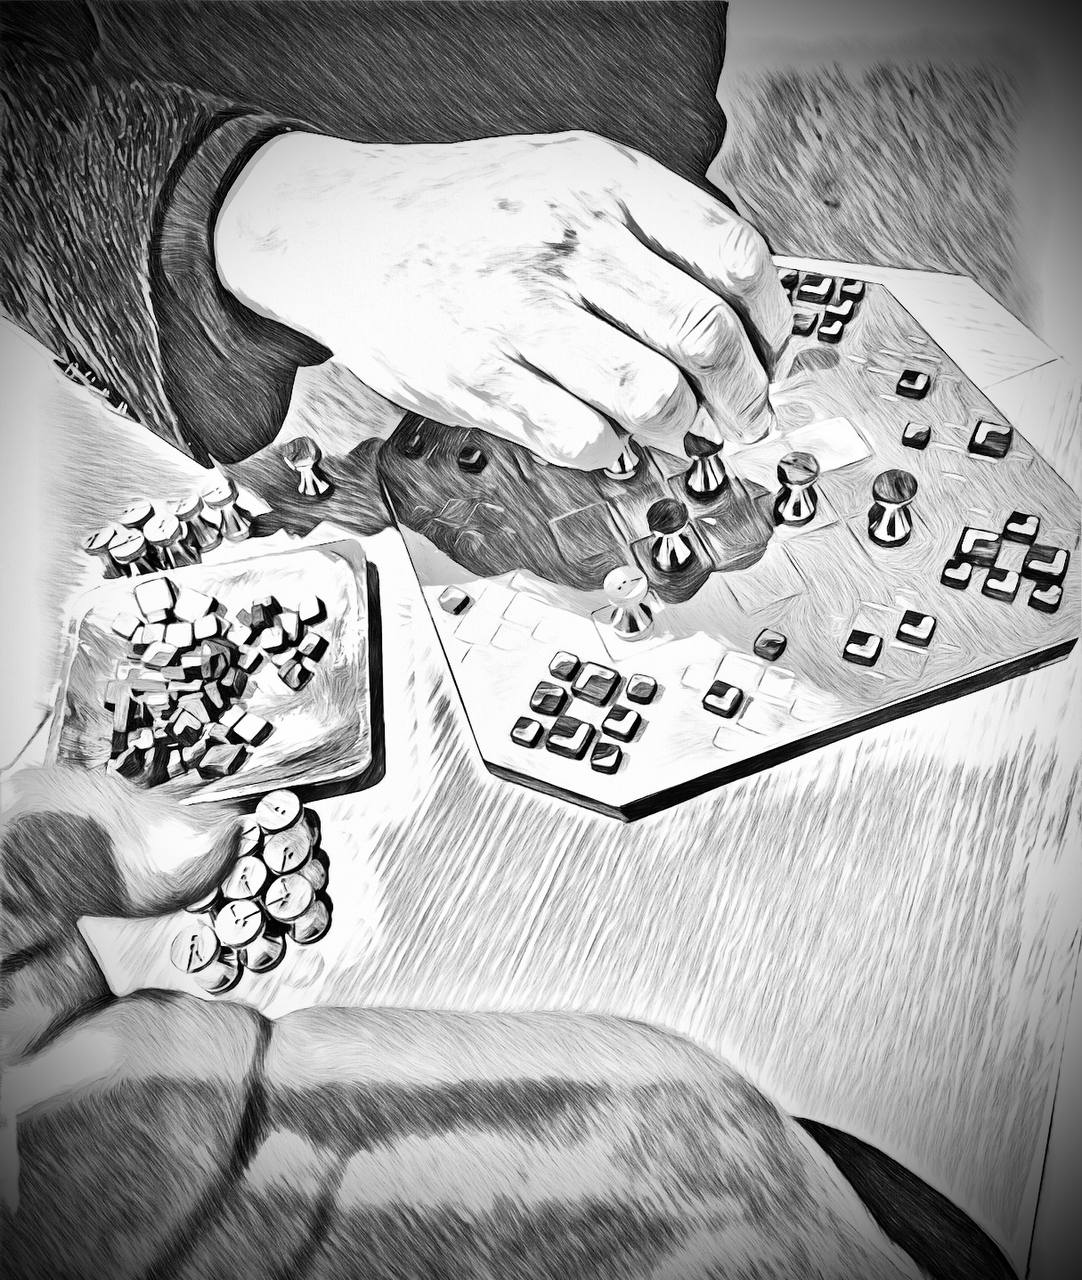
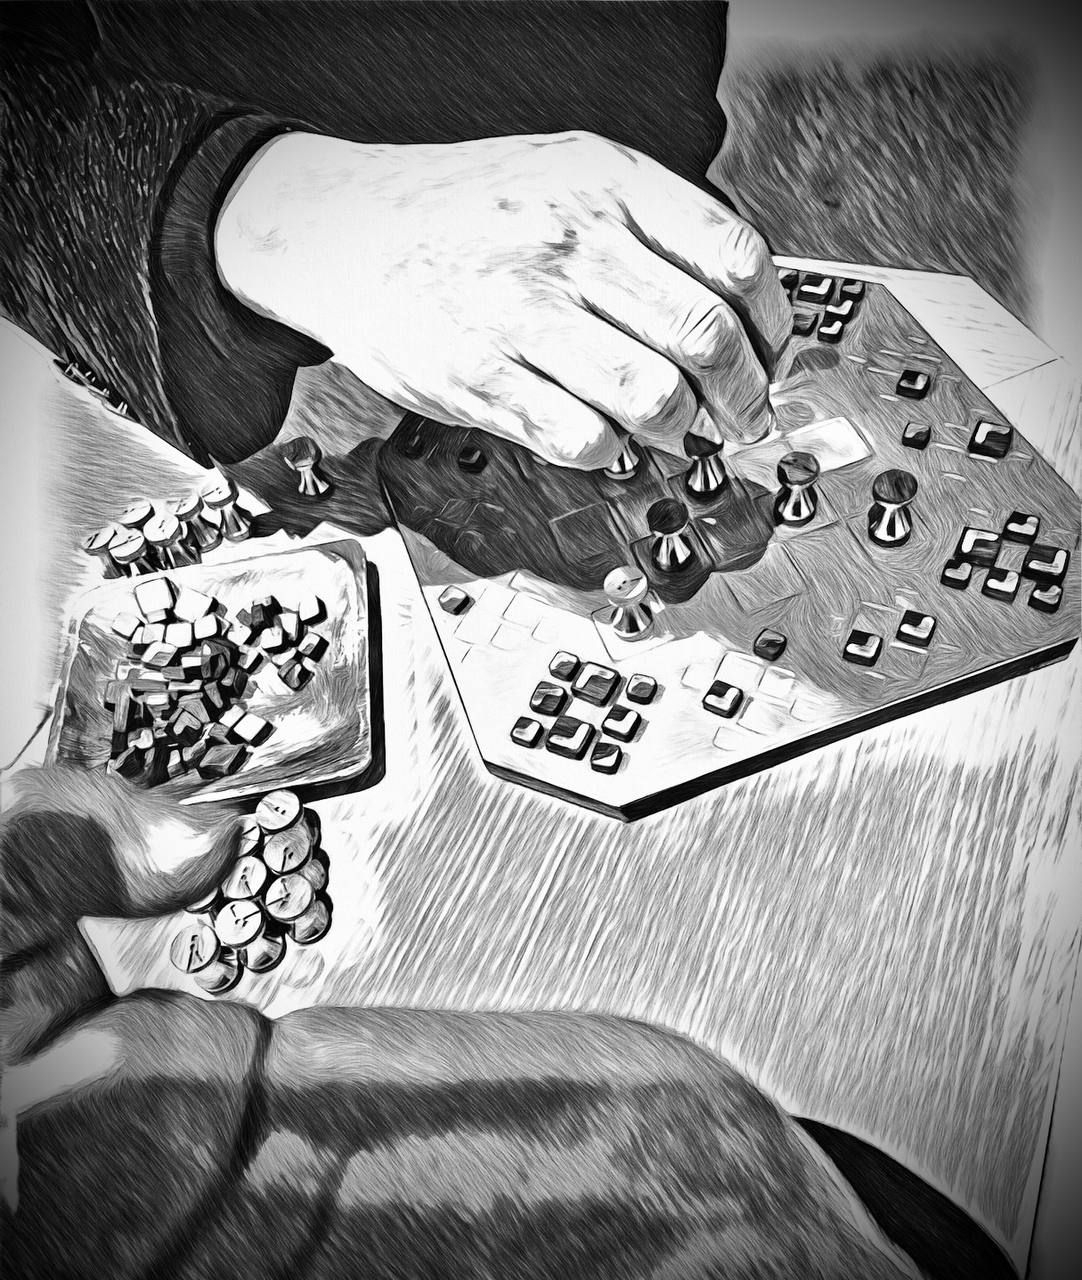
feat: update splash screen image and darken copy overlay
- Replace title-bg.jpg with new game board photo (hands placing pieces)
- Add radial gradient overlay at center to improve copy legibility

diff --git a/src/styles/app.css b/src/styles/app.css
@@ -3252,17 +3252,23 @@ ol { padding-left: 20px; }
   to   { transform: scale(1.07); }
 }
 
-/* Dark gradient overlay — stronger at bottom for text contrast */
+/* Dark gradient overlay — base layer + radial vignette around copy */
 .splash-overlay {
   position: absolute;
   inset: 0;
-  background: linear-gradient(
-    to bottom,
-    rgba(0, 0, 0, 0.15) 0%,
-    rgba(0, 0, 0, 0.10) 40%,
-    rgba(0, 0, 0, 0.55) 80%,
-    rgba(0, 0, 0, 0.70) 100%
-  );
+  background:
+    radial-gradient(
+      ellipse 70% 40% at 50% 50%,
+      rgba(0, 0, 0, 0.62) 0%,
+      rgba(0, 0, 0, 0.0) 100%
+    ),
+    linear-gradient(
+      to bottom,
+      rgba(0, 0, 0, 0.20) 0%,
+      rgba(0, 0, 0, 0.10) 35%,
+      rgba(0, 0, 0, 0.55) 80%,
+      rgba(0, 0, 0, 0.72) 100%
+    );
   pointer-events: none;
 }
 